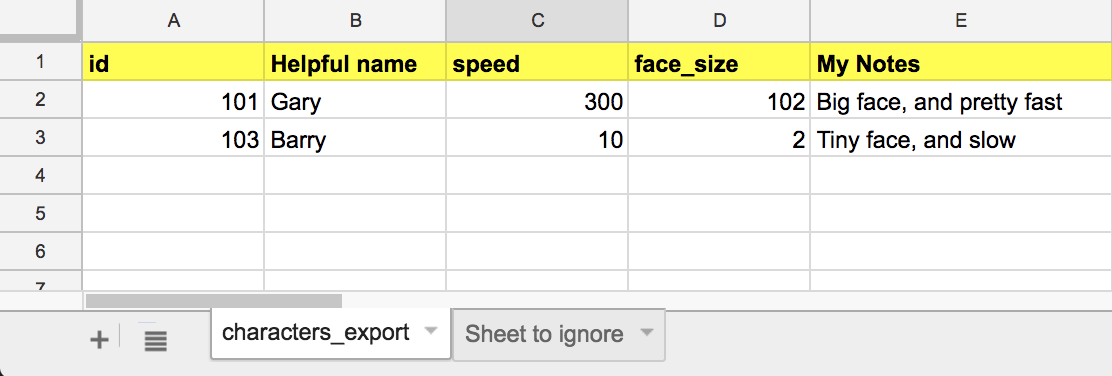
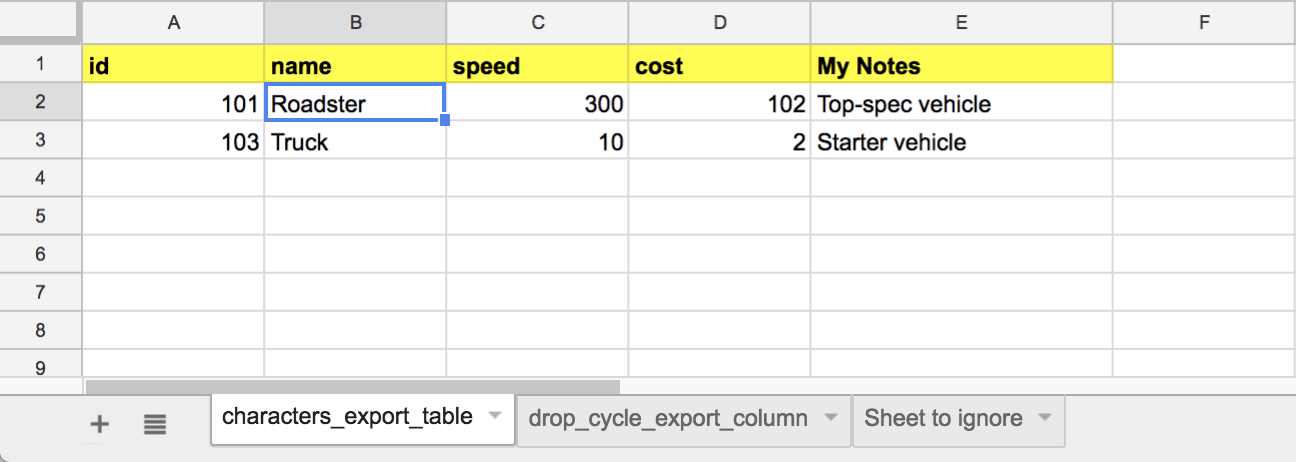
Added export of column data, now prettify JSON export

Changed region(s): [[0.0, 0.0, 1.0, 0.9654], [0.0, 0.9947, 0.0306, 1.0]]

diff --git a/README.md b/README.md
@@ -12,21 +12,42 @@ This is useful for anyone that wants to have data driven by a spreadsheet model,
 # Setting up the spreadsheet
 
 * Create a new Spreadsheet in Google Spreadsheets
-* Make sure that any worksheets you want to export have "_export" at the end, eg. "config_export". The "_export" part will be stripped before export, and this will be used for the attribute name in JSON.
 * The top row should contain the titles of the attributes you want to export e.g "id", "speed"
 * Any column with spaces in will be ignored e.g "My Notes"
 
+
+# Exporting structured data
+
+Use this if you want to export structured data (for example a list of items for sale, or enemy unit properties)
+
+* Make sure that any worksheets you want to export have "_export_table" at the end, eg. "config_export_table". The "_export_table" part will be stripped before export, and this will be used for the attribute name in JSON.
+
 For example, this Spreadsheet:
 
-![Image of Example Spreadsheet](example_sheet.png)
+![Image of Example Table Spreadsheet](example_sheet.png)
 
 Will export:
 
 `{characters:[
-    {"id":101,"name":"Gary","speed":300:"face_size":102},
-    {"id":102,"name":"Barry","speed":10:"face_size":2}
+    {"id":101,"name":"Roadster","speed":300:"cost":102},
+    {"id":102,"name":"Truck","speed":10:"cost":2}
 ]}`
 
+# Exporting sequence (array) data
+
+Use this if you want to export a sequence of numbers or strings (for example a chest drop-cycle)
+
+* Make sure that any worksheets you want to export have "_export_column" at the end, eg. "drop_cycle_export_column". The "_export_column" part will be stripped before export, and this will be used for the attribute name in JSON.
+
+For example, this Spreadsheet:
+
+![Image of Example Column Spreadsheet](example_column.png)
+
+Will export:
+
+`{drop_cycle:{
+    chest_type:[0,1,0,0,1,2]    
+}`
 
 # Setting up the Script
 
